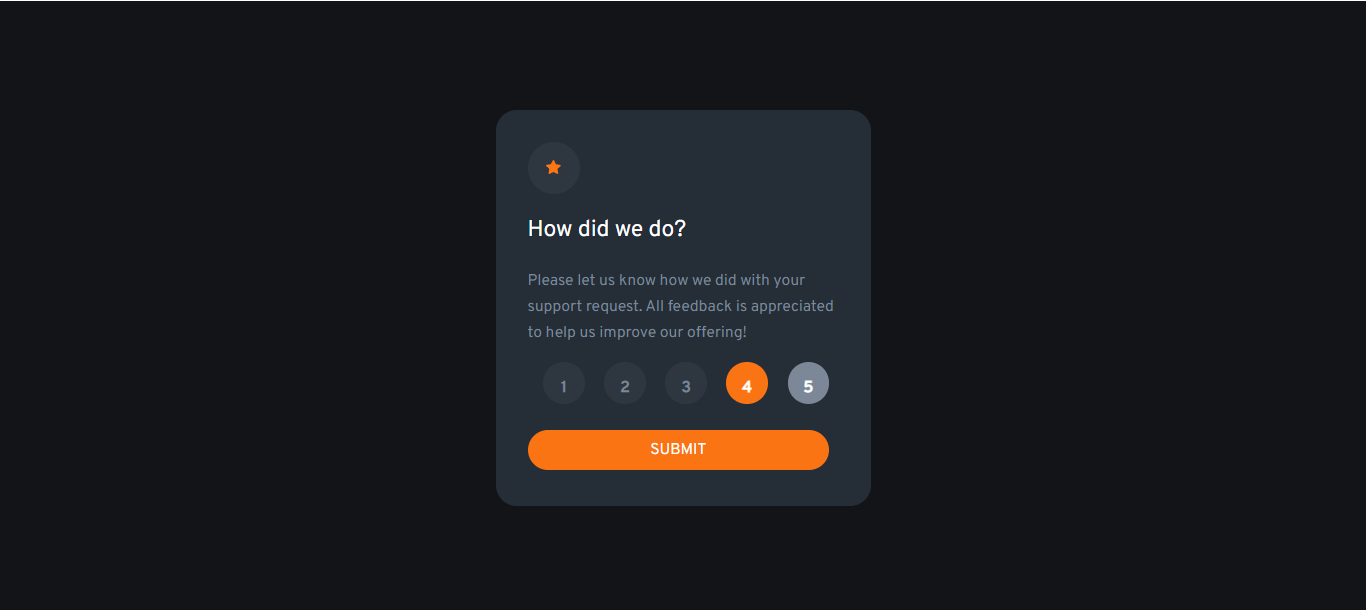
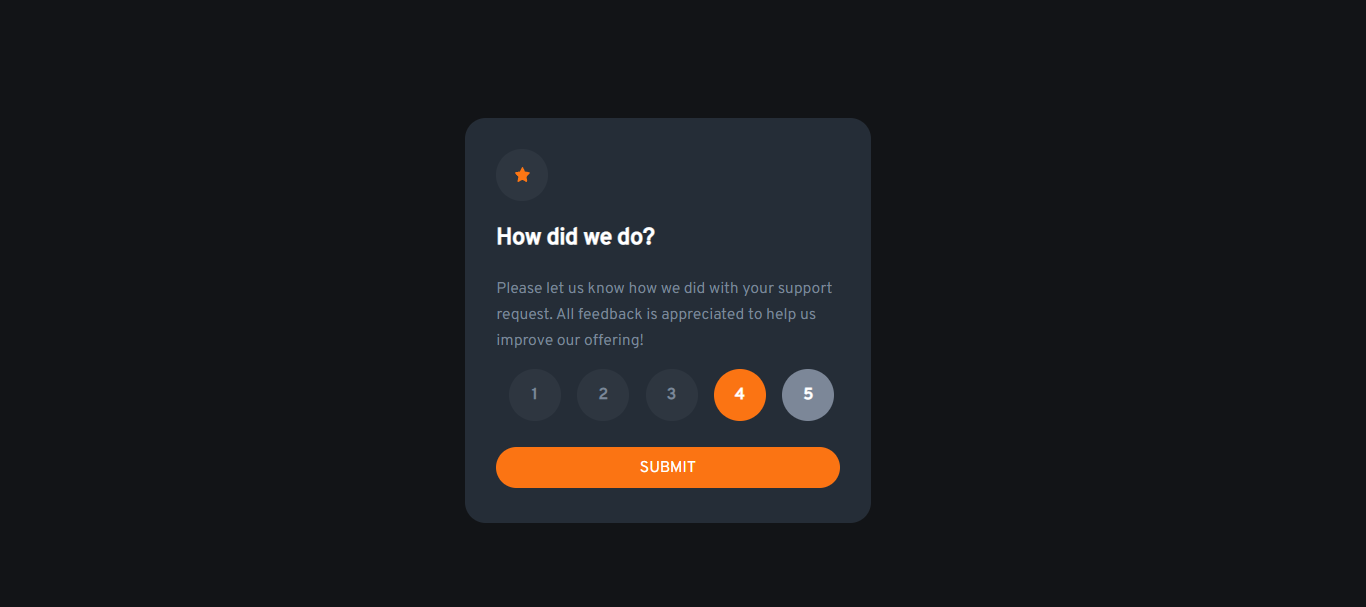
Third Challenge

Changed region(s): [[0.3382, 0.1779, 0.6457, 0.86], [0.4305, 0.6227, 0.4612, 0.6524]]

diff --git a/Interactive-rating/index.html b/Interactive-rating/index.html
@@ -24,11 +24,11 @@
   to help us improve our offering!</p>
   
   <div>
-  <div class="rate-box" onclick="select(this)"><br/>1</div> 
-  <div class="rate-box" onclick="select(this)"><br/>2</div>
-  <div class="rate-box" onclick="select(this)" ><br/>3</div>
-  <div class="rate-box" onclick="select(this)" ><br/>4</div>
-  <div class="rate-box" onclick="select(this)" ><br/>5</div>
+  <div class="rate-box" onclick="select(this)"><p>1</p></div> 
+  <div class="rate-box" onclick="select(this)"><p>2</p></div>
+  <div class="rate-box" onclick="select(this)" ><p>3</p></div>
+  <div class="rate-box" onclick="select(this)" ><p>4</p></div>
+  <div class="rate-box" onclick="select(this)" ><p>5</p></div>
   </div>
   <span id="message"></span>
 <button class="btn" onclick="submit()">SUBMIT</button>
